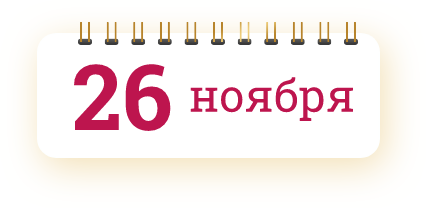
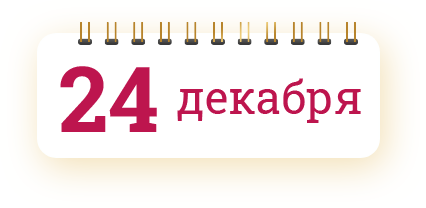
fix

Changed region(s): [[0.1221, 0.2885, 0.8545, 0.6346]]

diff --git a/src/app/components/second-forum/second-forum.component.html b/src/app/components/second-forum/second-forum.component.html
@@ -53,7 +53,7 @@
                     </div>
                     <div class="content-dates">
                         <div class="flex justify-between col">
-                            <p>26-27 ноября</p>
+                            <p>24-25 декабря</p>
                             <p>Онлайн</p>
                             <p>Участие бесплатно</p>
                         </div>
@@ -67,7 +67,7 @@
                                 <button class="registration-button"
                                     (click)="scrollTo('forum-program')">Зарегистрироваться</button>
                             </div>
-                            <p>*Регистрация на форум происходит через Tелеграмм мессенджер</p>
+                            <p style="margin-top: 12px;">*Регистрация на форум происходит через Tелеграмм мессенджер</p>
                             <!-- </div>
               <button class="registration-button registration-button-gold">
               </button> -->
@@ -102,7 +102,7 @@
                                 <img src="assets/Icons/22.png" alt="" class="img-card-icon" />
                             </div>
                             <div class="card-icon-title"><b>2-й день – 12 часов</b></div>
-                            <div class="card-icon-subtitle">непрерывной медитации Мира и Любви</div>
+                            <div class="card-icon-subtitle">непрерывной практики</div>
                         </div>
                     </div>
                     <div class="ro_wrap">
@@ -127,8 +127,8 @@
                             <div class="card-icon-img">
                                 <img src="assets/Icons/55.png" alt="" class="img-card-icon" />
                             </div>
-                            <div class="card-icon-title mt-1"><b>Практики Любви</b><br> в различных
-                                традициях:<br><b>Адвайта, Буддизм, Вайшнавизм...</b></div>
+                            <div class="card-icon-title mt-1"><b>Медитация "за мир"</b><br> в различных
+                                традициях</div>
                             <!-- <div class="card-icon-subtitle mt-1">высочайшего уровня</div> -->
                         </div>
                     </div>
@@ -182,7 +182,7 @@
                             </div>
                             <div class="t_wr">
                                 <p class="text-about-forum">поделятся истинным Знанием о том, что происходит сегодня и
-                                    тем, как изменить сложившуюся ситуацию. </p>
+                                    тем, как изменить сложившуюся ситуацию</p>
                             </div>
                         </div>
                         <div class="divid"></div>
@@ -200,7 +200,7 @@
                             </div>
                             <div class="t_wr">
                                 <p class="text-about-forum">непрерывной практики Шанти-кармы – молитвы мира и любви с
-                                    духовными лидерами и учителями.</p>
+                                    духовными лидерами и учителями</p>
                             </div>
                         </div>
                     </div>
@@ -242,11 +242,11 @@
                         <h2 class="sub-title">В программе Форума</h2>
                     </div>
                     <p style="margin-bottom: 25px;" class="text-about-forum">
-                        <b>26 ноября</b> – 16 Мастеров (различных духовных традиций) поделятся истинным Знанием о том,
+                        <b>24 декабря</b> – 16 Мастеров (различных духовных традиций) поделятся истинным Знанием о том,
                         что происходит сегодня и тем, как изменить сложившуюся ситуацию.
                     </p>
                     <p style="margin-bottom: 25px;" class="text-about-forum">
-                        <b>27 ноября</b> – 12 часов непрерывной практики Шанти-кармы – молитвы мира и любви с духовными
+                        <b>25 декабря</b> – 12 часов непрерывной практики Шанти-кармы – молитвы мира и любви с духовными
                         лидерами и учителями.
                     </p>
                     <p style="margin-bottom: 25px;" class="text-about-forum">

diff --git a/src/app/components/second-forum/second-forum.component.scss b/src/app/components/second-forum/second-forum.component.scss
@@ -168,6 +168,9 @@
     .program-forum {
         margin-top: 0px;
     }
+    .container {
+        margin: 0 auto;
+    }
 }
 @media (max-width: 1100px) {
     .flex.flex-wrap {
@@ -201,8 +204,19 @@
     .program-forum-flex {
         width: 500px;
     }
+    .gal_img {
+        margin: 0 auto 15px auto;
+        height: auto;
+        width: 70%;
+    }
+    .galr {
+        flex-direction: column;
+    }
 }
 @media (max-width: 550px) {
+    .gal_img {
+        width: 85%;
+    }
     .header-inner.header-inner-button.boreder {
         height: 56px;
         button {
@@ -210,7 +224,7 @@
         }
     }
     .head_in {
-        height: 160px;
+        height: 100px;
     }
     .header-inner.header-inner-button.boreder.grad {
         margin: 0;
@@ -222,6 +236,22 @@
     .bl_wraps .text-about-forum {
         width: auto;
     }
+    .logo__container-little {
+        img {
+            max-height: 100%;
+        }
+    }
+    .header {
+        height: 108px;
+    }
+}
+@media (max-width: 380px) {
+    .m_show {
+        justify-content: space-between;
+    }
+    .gal_img {
+        width: 100%;
+    }
 }
 @media (max-width: 350px) {
     .header-inner.header-inner-button.boreder {
@@ -229,10 +259,43 @@
             padding: 0 10px;
         }
     }
-    .m_show {
-        justify-content: unset;
+    .logo__container-little {
+        width: 40px;
     }
     .registration-button {
         padding: 0;
+    }
+    .registration-form-title .program-forum-flex .main-title {
+        font-size: 15px;
+    }
+    .registration-form-button {
+        margin-bottom: 35px;
+        font-size: 16px;
+    }
+}
+@media (max-width: 320px) {
+    .header-inner.header-inner-button.boreder.grad {
+        max-width: 220px;
+        button {
+            font-size: 16px;
+        }
+    }
+    .sub-title {
+        font-size: 25px;
+    }
+    .content-title-el {
+        font-size: 25px;
+    }
+    .program-forum-flex .img-star {
+        display: none; 
+    }
+    .logo__container-little {
+        display: none;
+    }
+    .header-inner.header-inner-text {
+        margin-bottom: 25px;
+    }
+    .about-forum {
+        width: 265px;
     }
 }
